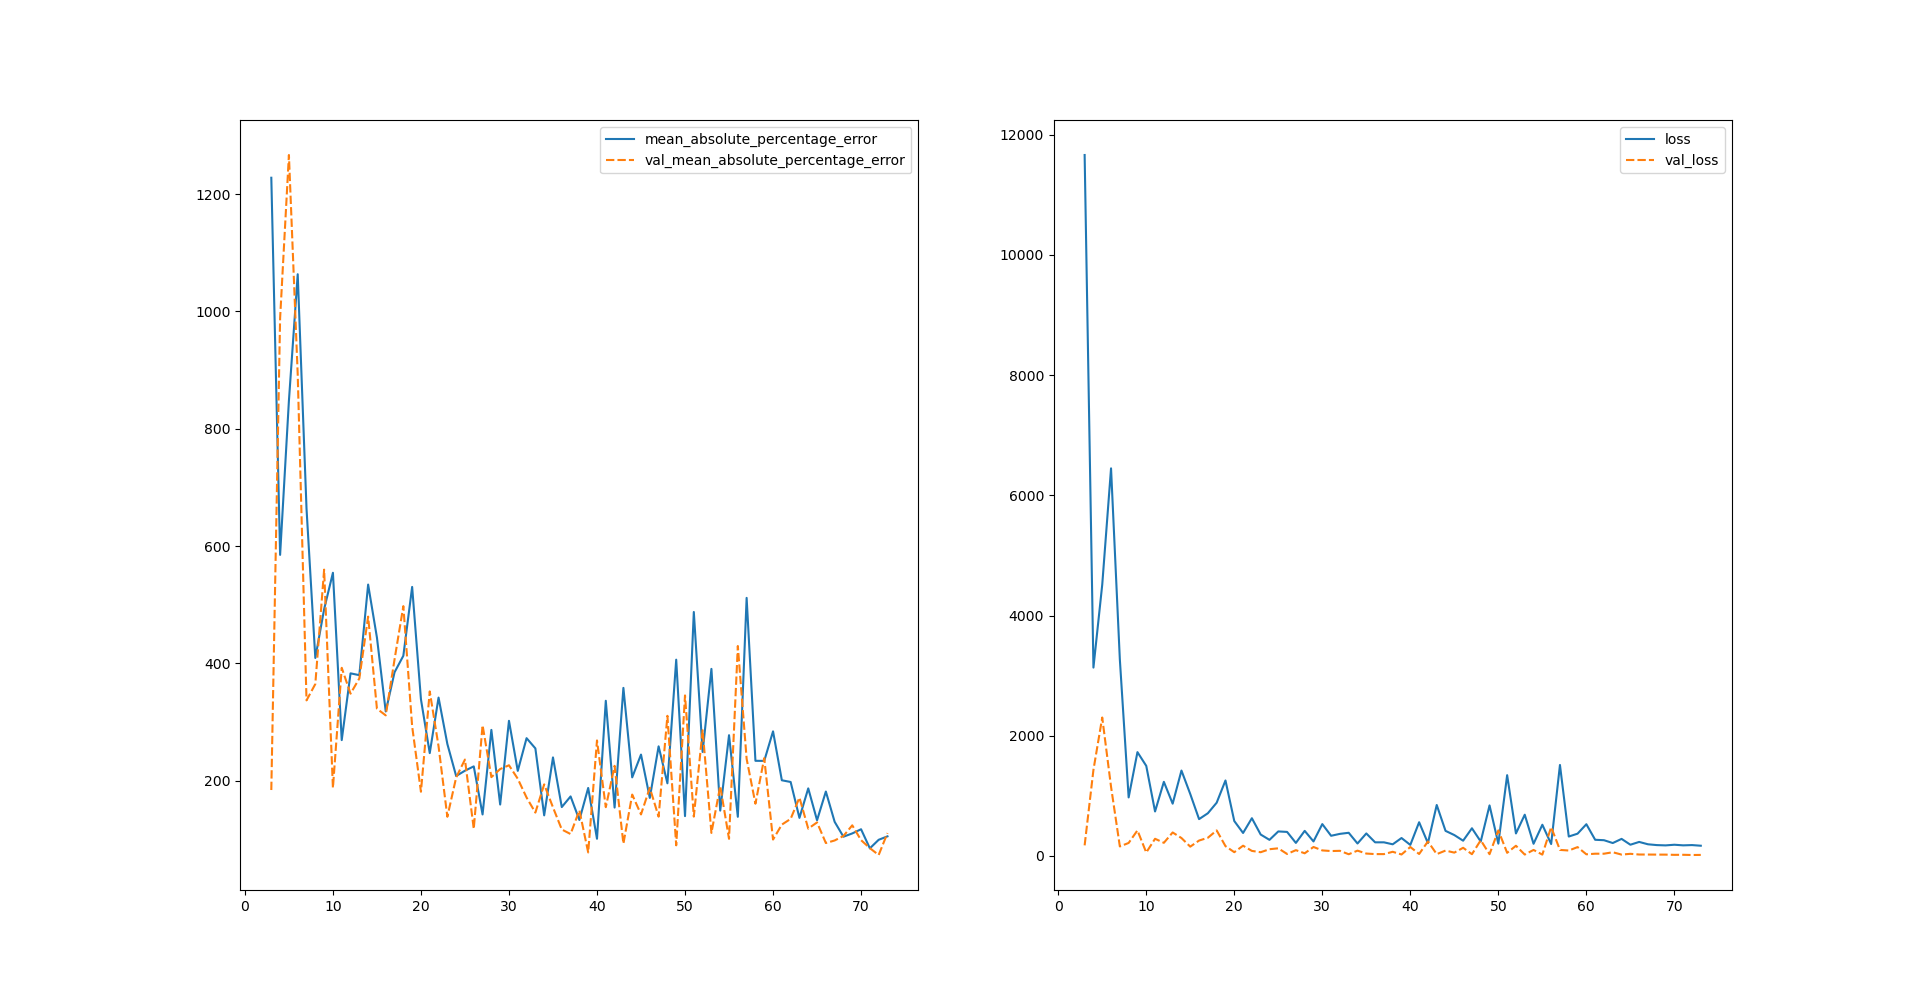
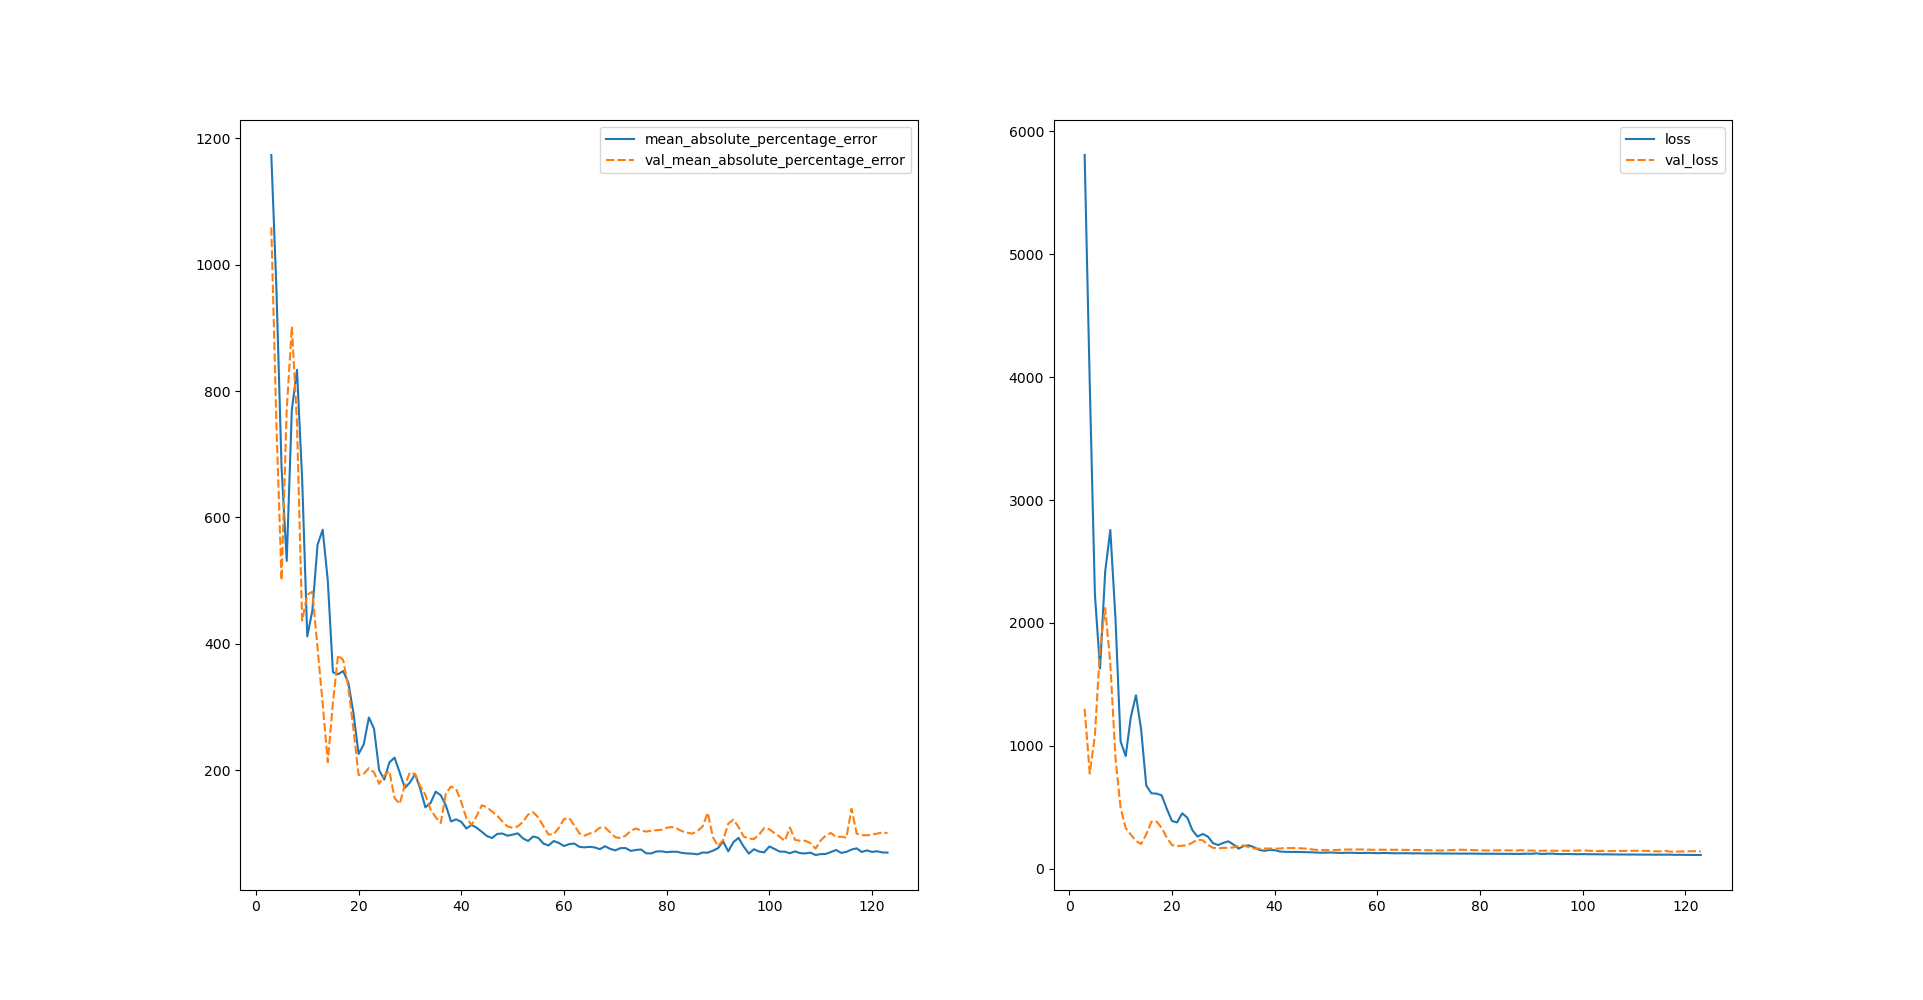
Nuevos datos, 50 por 2, 125 epochs

diff --git a/red_neuronal.py b/red_neuronal.py
@@ -56,12 +56,12 @@ assert X.shape[0]==Y.shape[0]
 input_dim=X.shape[1]
 output_dim=Y.shape[1]
 
-model=keras.models.Sequential([keras.layers.Dense(100,activation=tf.nn.relu,input_shape=(input_dim,)),keras.layers.Dense(100,activation=tf.nn.relu), keras.layers.Dense(output_dim)])
+model=keras.models.Sequential([keras.layers.Dense(50,activation=tf.nn.relu,input_shape=(input_dim,)),keras.layers.Dense(50,activation=tf.nn.relu), keras.layers.Dense(output_dim)])
 model.compile(optimizer='adam', loss='mean_squared_error', metrics=['mean_absolute_percentage_error'])
 model.summary()
 
 validation_split=0.2
-history=model.fit(X,Y,workers=4,epochs=75,verbose=2,validation_split=validation_split)
+history=model.fit(X,Y,workers=4,epochs=125,verbose=2,validation_split=validation_split)
 
 errores=pd.DataFrame(history.history)
 f=plt.figure(figsize=(20,10))
